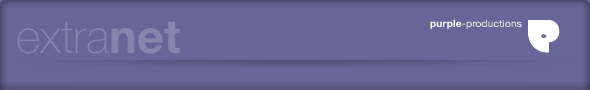
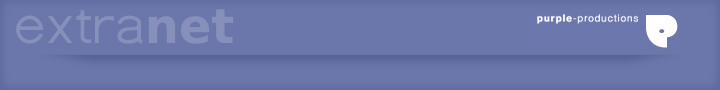
* corrections de vues * ajout pub gorfou * modif design * correction vidéo avec accents (needed double quoting in the flash content provider) * passage des vidéos en 720 * classement des project items

Changed region(s): [[0.0, 0.0, 1.0, 1.0], [0.2136, 0.6667, 0.7932, 0.7333]]

diff --git a/eztranet/skin/main.css b/eztranet/skin/main.css
@@ -1,5 +1,5 @@
 body {
-background: #666699;
+background: #6C77AE;
 color: #C6CCE7;
 background-image: url(/@@/images/fond.png);
 background-repeat: repeat-x;
@@ -15,16 +15,17 @@ padding-left: 5px;
 div#login_logout {
 position: absolute;
 top: 3%;
-left: 3%;
+left: -20%;
 }
 
 div#main {
-float: left;
-margin-top: 22px;
-width: 590px;
-background-image: url(/@@/images/fondmain.png);
-background-repeat: no-repeat;
-border: solid 2px #4F4F77;
+position: absolute;
+margin-top: 20px;
+margin-left: 22%;
+width: 720px;
+min-height: 400px;
+background: #6C77AD url(/@@/images/fondmain.png) no-repeat;
+border: solid 2px #586498;
 }
 
 div#breadcrumb {
@@ -34,21 +35,22 @@ padding-left: 5px;
 }
 
 div#navigationTree {
-background: #52527A;
-float: left;
-width: 200px;
+position: absolute;
+background: #586498;
+width: 400px;
 margin-top: 112px;
-margin-left: 10%;
+margin-left: 5%;
 overflow: hidden;
 }
 ul#main_menu {
 list-style-type: none;
 margin-bottom: 7px;
 margin-top: 65px;
-margin-left: 170px;
+margin-left: 230px;
 }
 ul#main_menu li {
     display: inline;
+    padding: 10px;
 }
 ul#main_menu a {
     font-weight: bold;
@@ -90,23 +92,22 @@ margin-top: 10px;
 #navtreecontents collection { display: block; margin-left: 10px; height: auto; }
 
 div#video_toolbar {
-background: white;
+background: #6C77AE;
 width: 100%;
 }
 div#video_toolbar a {
 margin-right: 10px;
-color: orange;
+color: #c6cce7;
 text-decoration: none;
 }
 div#image_toolbar a {
 margin-right: 10px;
-color: orange;
+color: #c6cce7;
 text-decoration: none;
 }
 
 div.item {
 float: left;
-
 height: 15em;
 text-align: center;
 overflow: hidden;
@@ -115,6 +116,9 @@ margin-right: 10px;
 div.item a {
 display: block;
 }
+div#buttons { position: absolute; bottom: 0; }
 a img { border: none; }
 .itemcreated, .itemmodified, .itemsize { font-size: 75%; }
 img.up { margin-top: 15px; }
+div#author { position: fixed; top: 1%; right: 1%; font-size: 70%; }
+div.page_error { color: yellow; margin: 5px; font-weight: bold; }

diff --git a/eztranet/project/browser.py b/eztranet/project/browser.py
@@ -25,6 +25,7 @@ import string
 from zope.app.form.browser.textwidgets import escape
 from zope.app.file.browser.file import FileView, FileUpload
 from zope.app.file import File
+from zope.dublincore.interfaces import IDCTimes
 
 from interfaces import *
 from project import Project, ProjectImage, ProjectVideo
@@ -65,7 +66,19 @@ class ProjectEdit(EditForm):
         if oldname!=newname:
             renamer = ContainerItemRenamer(self.context.__parent__)
             renamer.renameItem(oldname, newname)
-        return self.request.response.redirect(AbsoluteURL(self.context, self.request)()+"/edit.html")
+        return self.request.response.redirect(AbsoluteURL(self.context, self.request)()+"/view.html")
+
+def project_sorting(p1, p2):
+    u"We put projects in the beginning, and order by date, most recent first"
+    if IProject.providedBy(p1['object']) and IProjectItem.providedBy(p2['object']):
+        return -1
+    if IProject.providedBy(p2['object']) and IProjectItem.providedBy(p1['object']):
+        return 1
+    if IDCTimes(p1['object']).created > IDCTimes(p2['object']).created:
+        return -1
+    else:
+        return 1
+    return 0
 
 
 class ProjectView(Contents):
@@ -78,6 +91,13 @@ class ProjectView(Contents):
         if not self.context.description:
             return None
         return PlainTextToHTMLRenderer(escape(self.context.description), self.request).render()
+    def listContentInfo(self):
+        contentinfo = super(ProjectView, self).listContentInfo()
+        try:
+            contentinfo.sort(project_sorting)
+        except:
+            pass
+        return contentinfo
 
 class ProjectContainerView(Contents):
     u"""
@@ -91,7 +111,12 @@ class ProjectContainerView(Contents):
         reuse the original, but remove those not permitted
         """
         info = super(ProjectContainerView, self).listContentInfo()
-        return [ i for i in info if canAccess(i['object'], 'title') ]
+        ret = [ i for i in info if canAccess(i['object'], 'title') ]
+        try:
+            ret.sort(project_sorting)
+        except:
+            pass
+        return ret
 
 class ProjectImageAdd(AddForm):
     u"""
@@ -145,7 +170,7 @@ class ProjectItemEdit(EditForm):
             INameChooser(self.context.__parent__).checkName(newname,self.context)
             renamer = ContainerItemRenamer(self.context.__parent__)
             renamer.renameItem(oldname, newname)
-        return self.request.response.redirect(AbsoluteURL(self.context, self.request)()+"/edit.html")
+        return self.request.response.redirect(AbsoluteURL(self.context, self.request)()+"/view.html")
 
 class ProjectItemUpload(FileUpload):
     pass
@@ -163,8 +188,8 @@ class ProjectImageView(ProjectItemView):
     __call__=ViewPageTemplateFile("image.pt")
     def wantedWidth(self):
         width = self.context.getImageSize()[0]
-        if width > 590:
-            width=590
+        if width > 720:
+            width=720
         return width
     def originalWidth(self):
         return self.context.getImageSize()[0]

diff --git a/eztranet/project/flashpreview.py b/eztranet/project/flashpreview.py
@@ -1,5 +1,5 @@
 # -*- coding: utf-8 -*-
-import os, string
+import os
 from threading import Thread, Timer
 from tempfile import mkstemp
 from zope.contentprovider.interfaces import IContentProvider
@@ -8,6 +8,7 @@ from zope.component import adapts
 from zope.publisher.interfaces.browser import IDefaultBrowserLayer
 from zope.traversing.api import getPath
 from zope.proxy import removeAllProxies
+import urllib
 
 class FlashConverterThread(Thread):
     u"""
@@ -58,15 +59,15 @@ class FlashContentProvider(object):
         if self.context.flash_video_tempfile == 'FAILED':
             return u"La compression flash a échoué.<br/>Vous pouvez néanmoins télécharger la vidéo d'origine."
         if self.context.flash_video_tempfile == 'OK':
-            return """
-<object id="flowplayer" type="application/x-shockwave-flash" data="/@@/flowplayer.swf" width="590" height="442">
+            return u"""
+<object id="flowplayer" type="application/x-shockwave-flash" data="/@@/flowplayer.swf" width="720" height="540">
 	<param name="allowScriptAccess" value="sameDomain" />
 	<param name="movie" value="/@@/flowplayer.swf" />
 	<param name="quality" value="high" />
 	<param name="scale" value="noScale" />
 	<param name="wmode" value="transparent" />
-    <param name="flashvars" value="config={ initialScale:'orig', videoFile: '..%s/@@flv', loop: false }" />
+    <param name="flashvars" value="config={ initialScale:'fit', videoFile: '..%s/@@flv', loop: false }" />
 </object>
-""" % getPath(self.context)
+""" % urllib.quote(urllib.quote(getPath(self.context).encode('utf-8'))) # needs double quoting !! (half a day to find that)
         else:        
             return "Compressing..."

diff --git a/eztranet/project/project.py b/eztranet/project/project.py
@@ -18,7 +18,7 @@ from zope.app.file.file import File
 from zope.app.file.image import Image
 from zope.app.file.interfaces import IImage
 from persistent import Persistent
-import string, os
+import os
 import PIL.Image
 from StringIO import StringIO
 from tempfile import NamedTemporaryFile, TemporaryFile
@@ -67,7 +67,7 @@ class ProjectNameChooser(NameChooser):
             return name
         if project is not None and len(project.title)>0:
             rawname = project.title
-            newname = string.lower(rawname).strip().replace(' ','-').replace(u'/',u'-').lstrip('+@')
+            newname = unicode.lower(rawname).strip().replace(' ','-').replace(u'/',u'-').lstrip('+@')
             return newname
         raise "ProjectNameChooser Error"
 
@@ -83,7 +83,7 @@ class ProjectItemNameChooser(NameChooser):
             return name
         if projectitem is not None and len(projectitem.title)>0:
             rawname = projectitem.title
-            newname = string.lower(rawname).strip().replace(' ','-').replace(u'/',u'-').lstrip('+@')
+            newname = unicode.lower(rawname).strip().replace(' ','-').replace(u'/',u'-').lstrip('+@')
             return newname
         raise "ProjectItemNameChooser Error"
 

diff --git a/eztranet/project/interfaces.py b/eztranet/project/interfaces.py
@@ -23,8 +23,8 @@ class IProjectItem(IContained):
     a project item (image or video)
     """
     containers("eztranet.project.interfaces.IProject")
-    title = TextLine(title=u'titre', description=u'Titre du projet', required=False)
-    description = Text(title=u"description", description=u"Description de l'article", required=False, max_length=1000)
+    title = TextLine(title=u'nom de fichier', description=u'Nom du fichier', required=False)
+    description = Text(title=u"description", description=u"Description du fichier", required=False, max_length=1000)
 
 class IProjectImage(IProjectItem, IImage):
     u"marker interface to tell this is a project image"

diff --git a/eztranet/download/browser.py b/eztranet/download/browser.py
@@ -16,7 +16,7 @@ class DownloadView(BrowserView):
         tmpfile = TemporaryFile()
         tmpfile.write(self.context.data)
         tmpfile.seek(0)
-        self.request.response.setHeader('Content-disposition', 'attachment; filename=%s' % filename)
+        self.request.response.setHeader('Content-disposition', 'attachment; filename=%s' % filename.encode('utf-8'))
         self.request.response.setHeader('Content-length', self.context.getSize())
         self.request.response.setHeader('Content-Type', self.context.contentType)
         return tmpfile.read()
